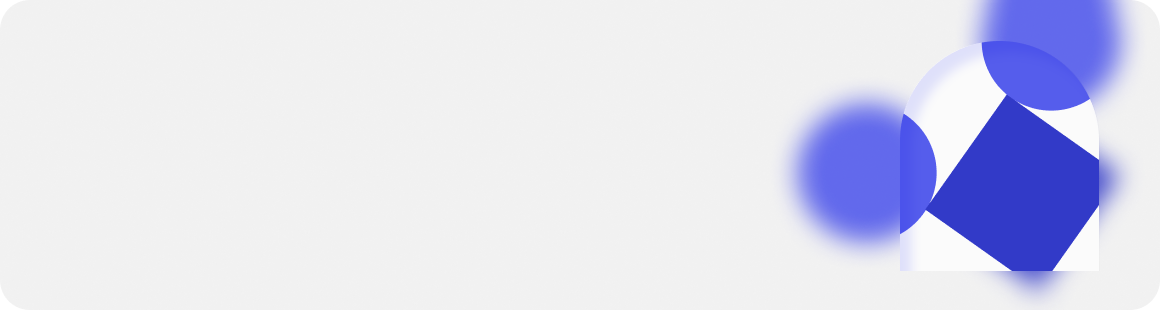
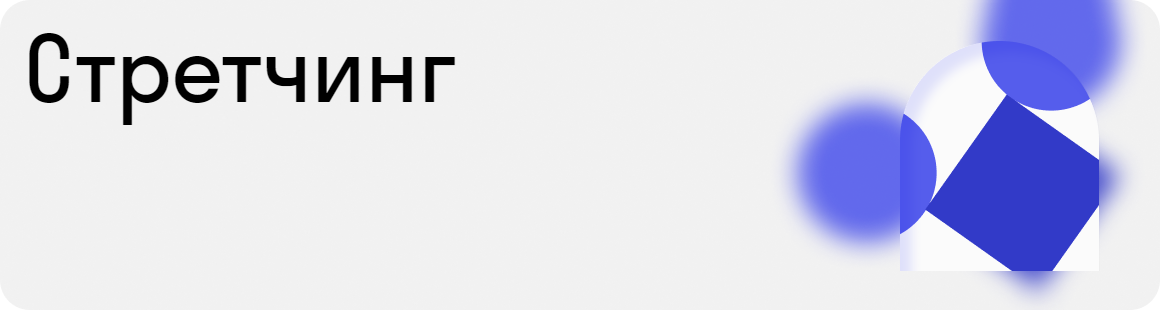
pages done

Changed region(s): [[0.0, 0.0871, 0.4034, 0.4065]]

diff --git a/src/components/progress/progress.module.scss b/src/components/progress/progress.module.scss
@@ -1,0 +1,69 @@
+.wrapper {
+    border-radius: 30px;
+    background-color: #F2F2F2;
+    width: 638px;
+}
+
+
+.content {
+    display: flex;
+    width: 100%;
+    justify-content: center;
+    align-items: center;
+    flex-direction: column;
+    gap: 40px;
+    padding: 36px 0 36px 0;
+
+    &__title {
+        text-align: center;
+        color: var(--colot-text);
+        font-size: 32px;
+        line-height: 40px;
+    }
+
+    &__progress {
+        width: 100%;
+        display: flex;
+        flex-direction: column;
+        gap: 26px;
+
+        &_text {
+            color: var(--colot-text);
+            font-size: 24px;
+            line-height: 32px;
+            width: 227px;
+        }
+
+        &_scale {
+            appearance: none;
+            -moz-appearance: none;
+            -webkit-appearance: none;
+            border: none;
+            border: 0;
+            border-radius: 22px;
+            height: 35px;
+            width: 240px;
+
+            &::-webkit-progress-bar {
+                background-color: #EDECFF;
+                border-radius: 22px;
+            }
+
+            &::-webkit-progress-value {
+                background-color: #565EEF;
+                border-radius: 22px 0 0 22px;
+            }
+
+            &:-moz-progress-bar {
+                background-color: #565EEF;
+                border-radius: 22px 0 0 22px;
+            }
+        }
+    }
+}
+
+.list {
+    display: flex;
+    justify-content: space-around;
+    align-items: center;
+}

diff --git a/src/components/progress/progress.jsx b/src/components/progress/progress.jsx
@@ -1,0 +1,27 @@
+import style from "./progress.module.scss"
+
+const Progress = () => {
+    return (
+        <div className={style.wrapper}>
+            <div className={style.content}>
+                <p className={style.content__title}>Мой прогресс по тренировке 2:</p>
+                <div className={style.content__progress}>
+                    <div className={style.list}>
+                        <p className={style.content__progress_text}>Наклоны вперед</p>
+                        <progress max="100" value="45" className={style.content__progress_scale} />
+                    </div>
+                    <div className={style.list}>
+                        <p className={style.content__progress_text}>Наклоны назад</p>
+                        <progress max="100" value="45" className={style.content__progress_scale}/>
+                    </div>
+                    <div className={style.list}>
+                        <p className={style.content__progress_text}>Поднятие ног, согнутых в коленях</p>
+                        <progress max="100" value="45" className={style.content__progress_scale}/>
+                    </div>
+                </div>
+            </div>
+        </div>
+    )
+}
+
+export default Progress

diff --git a/src/pages/yogaForAuth/yogaForAuth.jsx b/src/pages/yogaForAuth/yogaForAuth.jsx
@@ -1,0 +1,28 @@
+import User from "../../components/user/user";
+import Exercises from "../../components/exercises/exercises";
+import Progress from "../../components/progress/progress";
+
+import logo from '../../image/logo.png';
+import style from './yogaForAuth.module.scss';
+
+export default function YogaForAuth() {
+    return (
+        <div className={style.wrapper}>
+            <header className={style.header}>
+                <img src={logo} alt="logo" />
+                <User />
+            </header>
+            <div className={style.content}>
+                <h2 className={style.content__title}>Йога</h2>
+                <p className={style.content__description}> Красота и здоровье / Йога на каждый день / 2 день</p>
+                <div className={style.content__video}>
+                    <p>Тут будет видео</p>
+                </div>
+            </div>
+            <div className={style.footer}>
+                <Exercises />
+                <Progress/>
+            </div>
+        </div>
+    )
+}

diff --git a/src/routes.jsx b/src/routes.jsx
@@ -8,11 +8,12 @@ import Stretching from './pages/stretching/stretching';
 import Dancefitnes from './pages/danceFitness/danceFitness';
 import Yogatraining from './pages/yogatraining/yogatraining';
 import Stretchingtraining from './pages/stretchingtraining/stretchingtraining';
+import YogaForAuth from './pages/yogaForAuth/yogaForAuth';
 const AppRoutes = () => {
 
   return (
     <Routes>
-      <Route path="/" element={<Start />} />
+      <Route path="/yoga-training" element={<Start />} />
       <Route path="/yoga" element={<Yoga />} />
       <Route path="/bodyflex" element={<Bodyflex />} />
       <Route path="/stretching" element={<Stretching />} />
@@ -21,6 +22,7 @@ const AppRoutes = () => {
       <Route path="/yogatraining" element={<Yogatraining />} />
       <Route path="/stretchingtraining" element={<Stretchingtraining />} />
       <Route path="/profile" element={<Profile />} />
+      <Route path="/" element={<YogaForAuth />} />      
     </Routes>
   );
 };

diff --git a/src/pages/yogapage/yogapage.jsx b/src/pages/yogapage/yogapage.jsx
@@ -1,5 +1,5 @@
 import logo from '../../image/logo.png';
-import yoga from '../../image/yoga.png';
+import yogatitle from '../../image/yogatitle.png';
 import Coursent from '../../components/coursEnt/coursent';
 import style from "./yogapage.module.scss";
 import circle1 from '../../image/circle1.png';
@@ -13,8 +13,7 @@ export default function Yoga() {
             <img src={logo} alt="logo" />               
         </header>
         <div className={style.top}>
-            <div className={style.top__text}>Стретчинг</div>       
-            <img src={yoga} className={style.top__image} alt="bodyflex" />
+            <img src={yogatitle} className={style.top__image} alt="yoga" />
         </div>
         <div className={style.tytle}>
             <h2 className={style.tytle__text}> Подойдет для вас, если: </h2>        

diff --git a/src/pages/bodyflex/bodyflexpage.jsx b/src/pages/bodyflex/bodyflexpage.jsx
@@ -1,5 +1,5 @@
 import logo from '../../image/logo.png';
-import bodyflex from "../../image/bodyflex.png"
+import bodytitle from "../../image/bodytitle.png"
 import Coursent from '../../components/coursEnt/coursent';
 import style from "./bodyflex.module.scss";
 import circle1 from '../../image/circle1.png';
@@ -14,8 +14,7 @@ return (
             <img src={logo} alt="logo" />               
         </header>
         <div className={style.top}>
-            <div className={style.top__text}>Бодифлекс</div>       
-            <img src={bodyflex} className={style.top__image} alt="bodyflex" />
+            <img src={bodytitle} className={style.top__image} alt="bodyflex" />
         </div>
         <div className={style.tytle}>
             <h2 className={style.tytle__text}> Подойдет для вас, если: </h2>        

diff --git a/src/pages/step/steppage.jsx b/src/pages/step/steppage.jsx
@@ -1,5 +1,5 @@
 import logo from '../../image/logo.png';
-import step from "../../image/step.png"
+import step from "../../image/steptitle.png"
 import Coursent from '../../components/coursEnt/coursent';
 import style from "./step.module.scss";
 import circle1 from '../../image/circle1.png';
@@ -14,8 +14,7 @@ return (
             <img src={logo} alt="logo" />               
         </header>
         <div className={style.top}>
-            <div className={style.top__text}>Бодифлекс</div>       
-            <img src={step} className={style.top__image} alt="bodyflex" />
+            <img src={step} className={style.top__image} alt="step" />
         </div>
         <div className={style.tytle}>
             <h2 className={style.tytle__text}> Подойдет для вас, если: </h2>        

diff --git a/src/pages/yogaForAuth/yogaForAuth.module.scss b/src/pages/yogaForAuth/yogaForAuth.module.scss
@@ -1,0 +1,43 @@
+.wrapper {
+    background-color: var(--background-color-allPage);
+    padding: 30px 300px 0 140px;
+    height: 100%;
+    display: flex;
+    gap: 75px;
+    flex-direction: column;
+}
+
+.header {
+    display: flex;
+    justify-content: space-between;
+    margin: 30px 0 0 0;
+}
+
+.content {
+    display: flex;
+    gap: 40px;
+    flex-direction: column;
+
+    &__title {
+        color: var(--colot-text);
+        font-size: 48px;
+        line-height: 56px;
+    }
+
+    &__description {
+        color: var(--colot-text);
+        font-size: 32px;
+        line-height: 40px;
+    }
+
+    &__video {
+        width: 100%;
+        height: 639px;
+        background: rgb(194, 194, 178);
+    }
+}
+
+.footer {
+    display: flex;
+    justify-content: space-between;
+}

diff --git a/src/components/exercises/exercises.jsx b/src/components/exercises/exercises.jsx
@@ -1,0 +1,20 @@
+import Button from "../button/button";
+
+import style from "./exercises.module.scss"
+
+const Exercises = () => {
+    return (
+        <div className={style.wrapper}>
+            <p className={style.title}>Упражнения</p>
+            <ul className={style.exercises}>
+                <li>Наклон вперед (10 повторений)</li>
+                <li>Наклон назад (10 повторений)</li>
+                <li>Поднятие ног, согнутых в коленях (5 повторений)</li>
+            </ul>
+
+            <Button text={"Заполнить свой прогресс"}/>
+        </div>
+    )
+}
+
+export default Exercises

diff --git a/src/pages/danceFitness/danceFitness.jsx b/src/pages/danceFitness/danceFitness.jsx
@@ -1,5 +1,5 @@
 import logo from '../../image/logo.png';
-import dancefitnes from "../../image/dancfitnes.png"
+import dancefitnes from "../../image/dancetitle.png"
 import Coursent from '../../components/coursEnt/coursent';
 import style from "./danceFitness.module.scss";
 import circle1 from '../../image/circle1.png';
@@ -14,7 +14,6 @@ return (
             <img src={logo} alt="logo" />               
         </header>
         <div className={style.top}>
-            <div className={style.top__text}>Бодифлекс</div>       
             <img src={dancefitnes} className={style.top__image} alt="bodyflex" />
         </div>
         <div className={style.tytle}>

diff --git a/src/pages/bodyflex/bodyflex.module.scss b/src/pages/bodyflex/bodyflex.module.scss
@@ -5,7 +5,7 @@
     display: flex;
     gap: 75px;
     flex-direction: column;
-    line-height: 48px;
+    line-height: 32px;
     font-size: 24px;
     padding-bottom: 30px;
 }
@@ -16,19 +16,10 @@
 }
 
 .top {
-    height: 310px;
-    text-align: center;
-    background-image: url('../../image/bodyflex.png');
-    background-size: cover;
-    background-position: center center;
-    display: table-cell;
-    vertical-align: middle;
-    border-radius: 50px;
-    overflow: hidden;
-
-    &__text {}
-
-    &__image {}
+    &__image {
+        width: 100%;
+        border-radius: 50px;
+    }
 }
 
 .subtitle {

diff --git a/src/pages/danceFitness/danceFitness.module.scss b/src/pages/danceFitness/danceFitness.module.scss
@@ -5,7 +5,7 @@
     display: flex;
     gap: 75px;
     flex-direction: column;
-    line-height: 48px;
+    line-height: 32px;
     font-size: 24px;
     padding-bottom: 30px;
 }
@@ -16,19 +16,10 @@
 }
 
 .top {
-    height: 310px;
-    text-align: center;
-    background-image: url('../../image/bodyflex.png');
-    background-size: cover;
-    background-position: center center;
-    display: table-cell;
-    vertical-align: middle;
-    border-radius: 50px;
-    overflow: hidden;
-
-    &__text {}
-
-    &__image {}
+    &__image {
+        width: 100%;
+        border-radius: 50px;
+    }
 }
 
 .subtitle {
